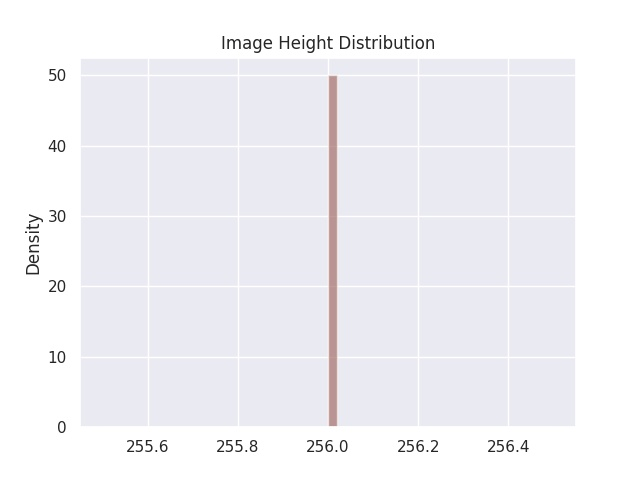
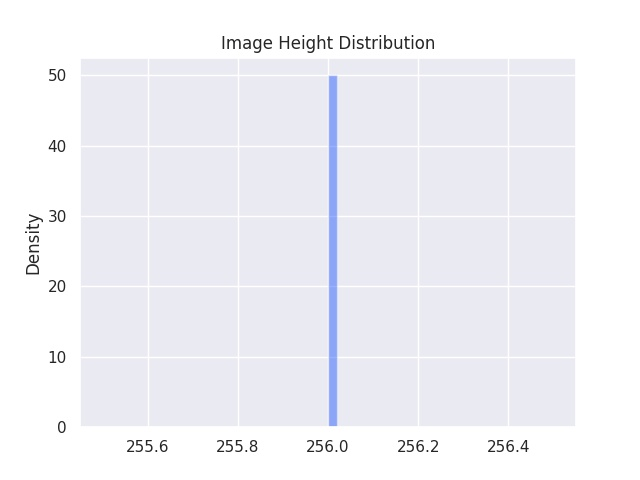
Add image width and height histograms to dashboard

Changed region(s): [[0.5, 0.1562, 0.5312, 0.9062]]

diff --git a/app_pages/page_visualisation.py b/app_pages/page_visualisation.py
@@ -30,6 +30,14 @@ def cherry_leaves_visualisation_page():
         dimensions = plt.imread(f"{file_path}/height_width_plot.jpg")
         st.image(dimensions, caption="Height vs Width (px)")
 
+    if st.button("Width Distribution"):
+        width_dist = plt.imread(f"{file_path}/image_width_dist.jpg")
+        st.image(width_dist, caption="Histogram of distribution od image widths.")
+
+    if st.button("Height Distribution"):
+        width_dist = plt.imread(f"{file_path}/image_height_dist.jpg")
+        st.image(width_dist, caption="Histogram of distribution od image heights.")
+
     st.info("Every image in the data set has a height and width of 256 px.")
 
     st.header("Average Image and Image Variability")
